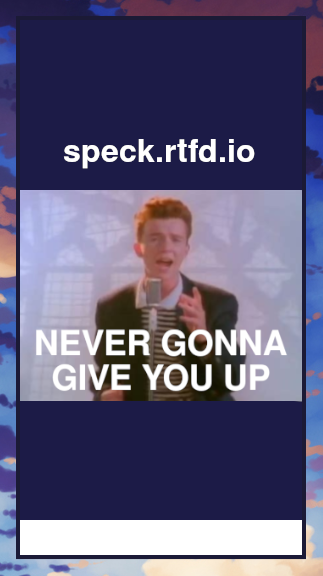
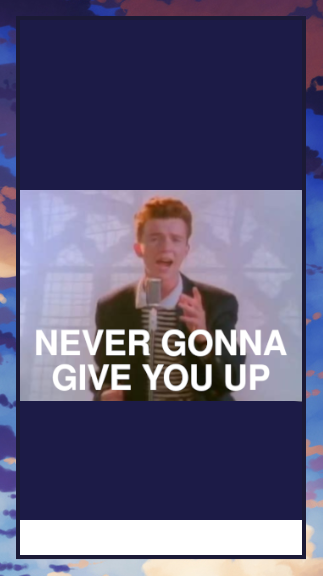
cleanup implementations

Changed region(s): [[0.1858, 0.2188, 0.805, 0.3125]]

diff --git a/speck/client.py b/speck/client.py
@@ -16,6 +16,9 @@ from . import types
 
 __all__ = ['Client']
 
+_FROM_CACHE = 'c'
+_FROM_RESPONSE = 'r'
+
 class Client:
     """
     Represents a connection to weatherapi.com.
@@ -94,14 +97,20 @@ class Client:
             raise errors.InternalError(f"Unable to fetch data at this time: {e}", 9999)
 
     def __generic_request(self, loc, mode, endpoint, parameters, *args, **kwargs):
-        """Generic request method, covering any endpoint and parameters."""
+        """
+        Generic request method, covering any endpoint and parameters.
+
+        :returns: ``(str, response)``. Response can be a `types` object, or a raw
+            weatherapi response. The first element of the tuple is either
+            ``_FROM_CACHE`` or ``_FROM_RESPONSE``.
+        """
 
         if loc == '':
             raise errors.QueryNotProvided('Location cannot be empty.', 0)
 
         n = self.cache.read(mode)
         if n:
-            return n
+            return (_FROM_CACHE, n)
 
         response = self.__make_request(endpoint, parameters)
 
@@ -109,7 +118,13 @@ class Client:
         if e:
             raise e
 
-        return response
+        return (_FROM_RESPONSE, response)
+
+    # All implementations should follow the same naming pattern.
+    # `{type}-{location}-now-{time-identifier}`
+    # Old cache will be cleaned up disregarding `time-identifier`.
+    # So, any cache starting with `{type}-{location}` will be deleted
+    # if a new cache starting with `{type}-{location}` is dumped.
 
     def __cache_dump(self, data, mode):
         """Dump response cache with name ``mode``."""
@@ -149,30 +164,18 @@ class Client:
         :rtype: :class:`types.HourlyPoint`
         """
 
-        if loc == '':
-            raise errors.QueryNotProvided('Location cannot be empty.', 0)
-
+        # https://docs.python.org/3/library/datetime.html#strftime-strptime-behavior
         mode = f"current-{loc.lower()}-now-{dt.now().strftime('%Y-%m-%d-%H-%M')[:-1]}"
 
-        # https://docs.python.org/3/library/datetime.html#strftime-strptime-behavior
+        _type, response = self.__generic_request(loc, mode, 'current.json', f'?key={self._token}&q={loc}')
 
-        # If cache exists (not None), it will be read and an `HourlyPoint` object will be returned
-
-        n = self.cache.read(mode)
-        if n:
-            return n
-
-        response = self.__make_request('current.json', f'?key={self._token}&q={loc}')
-
-        e = Client.__is_error_code(response)
-        if e:
-            raise e
+        if _type == _FROM_CACHE:
+            return response
 
         # Creates the `HourlyPoint` object
         data = types.HourlyPoint.from_raw(response["location"], response["current"])
 
-        self.cache.cleanup(mode.split('-now-')[0] + '-now-*') # Discard any old cache
-        self.cache.dump(mode, data) # Writes cache
+        self.__cache_dump(data, mode)
 
         return data
 
@@ -190,20 +193,12 @@ class Client:
         :rtype: ``(types.HourlyPoint, list[types.DailyPoint])``
         """
 
-        if loc == '':
-            raise errors.QueryNotProvided('Location cannot be empty.', 0)
-
         mode = f"forecast-{loc.lower()}-now-{dt.now().strftime('%Y-%m-%d-%H-%M')[:-1]}"
 
-        n = self.cache.read(mode)
-        if n:
-            return n
+        _type, response = self.__generic_request(loc, mode, 'forecast.json', f'?key={self._token}&q={loc}&days={min(days, 10)}')
 
-        response = self.__make_request('forecast.json', f'?key={self._token}&q={loc}&days={min(days, 10)}')
-
-        e = Client.__is_error_code(response)
-        if e:
-            raise e
+        if _type == _FROM_CACHE:
+            return response
 
         # `data` here is a tuple of the current weather (`HourlyPoint`)
         # and a list of forecasted days (`DailyPoint`s).
@@ -215,8 +210,7 @@ class Client:
             ]
         )
 
-        self.cache.cleanup(mode.split('-now-')[0] + '-now-*')
-        self.cache.dump(mode, data)
+        self.__cache_dump(data, mode)
 
         return data
 
@@ -229,25 +223,16 @@ class Client:
         :rtype: :class:`types.AstroPoint`
         """
 
-        if loc == '':
-            raise errors.QueryNotProvided('Location cannot be empty.', 0)
-
         mode = f"astro-{loc.lower()}-now-{dt.now().strftime('%Y-%m-%d')}"
 
-        n = self.cache.read(mode)
-        if n:
-            return n
+        _type, response = self.__generic_request(loc, mode, 'astronomy.json', f'?key={self._token}&q={loc}')
 
-        response = self.__make_request('astronomy.json', f'?key={self._token}&q={loc}')
-
-        e = Client.__is_error_code(response)
-        if e:
-            raise e
+        if _type == _FROM_CACHE:
+            return response
 
         data = types.AstroPoint.from_raw(response["location"], response["astronomy"]["astro"])
 
-        self.cache.cleanup(mode.split('-now-')[0] + '-now-*')
-        self.cache.dump(mode, data)
+        self.__cache_dump(data, mode)
 
         return data
 
@@ -260,24 +245,17 @@ class Client:
         :rtype: :class:`IpPoint`
         """
 
-        if ip == '':
-            raise errors.QueryNotProvided('IP cannot be empty.', 0)
-
         mode = f"iplookup-{ip}"
 
-        n = self.cache.read(mode)
-        if n:
-            return n
+        _type, response = self.__generic_request(ip, mode, 'ip.json', f'?key={self._token}&q={ip}')
 
-        response = self.__make_request('ip.json', f'?key={self._token}&q={ip}')
-
-        e = Client.__is_error_code(response)
-        if e:
-            raise e
+        if _type == _FROM_CACHE:
+            return response
 
         data = types.IpPoint.from_raw(response)
 
         self.cache.dump(mode, data)
+        # cleanup not required here
 
         return data
 
@@ -290,21 +268,12 @@ class Client:
         :rtype: ``list[types.Location]``
         """
 
-        if loc == '':
-            raise errors.QueryNotProvided('Location cannot be empty.', 0)
-
         mode = f"search-{loc.lower()}"
 
-        n = self.cache.read(mode)
+        _type, response = self.__generic_request(loc, mode, 'search.json', f'?key={self._token}&q={loc}')
 
-        if n:
-            return n
-
-        response = self.__make_request('search.json', f'?key={self._token}&q={loc}')
-
-        e = Client.__is_error_code(response)
-        if e:
-            raise e
+        if _type == _FROM_CACHE:
+            return response
 
         data = [
             types.Location.from_raw(i)
@@ -328,6 +297,7 @@ class Client:
             raise errors.QueryNotProvided('Location cannot be empty.', 0)
 
         # No cache
+        # since localtime is a returned parameter.
 
         response = self.__make_request('timezone.json', f'?key={self._token}&q={loc}')
 
@@ -349,15 +319,10 @@ class Client:
         """
         mode = f"sports-{loc.lower()}-now-{dt.now().strftime('%Y-%m-%d')}"
 
-        n = self.cache.read(mode)
-        if n:
-            return n
+        _type, response = self.__generic_request(loc, mode, 'sports.json', f'?key={self._token}&q={loc}')
 
-        response = self.__make_request('sports.json', f'?key={self._token}&q={loc}')
-
-        e = Client.__is_error_code(response)
-        if e:
-            raise e
+        if _type == _FROM_CACHE:
+            return response
 
         # `SportsPoint` contains data per sports event. It's not specific
         # to any type of sport, nor is it a collection. We use a dictionary
@@ -368,8 +333,7 @@ class Client:
         }
 
 
-        self.cache.cleanup(mode.split('-now-')[0] + '-now-*')
-        self.cache.dump(mode, data)
+        self.__cache_dump(data, mode)
 
         return data
 
@@ -389,23 +353,15 @@ class Client:
         # weatherapi returns history data as an `Forecast` object as per their API.
         # https://www.weatherapi.com/docs/#apis-history
 
-        if loc == '':
-            raise errors.QueryNotProvided('Location cannot be empty.', 0)
-
         mode = f"history-{loc.lower()}-now-{dt.now().strftime('%Y-%m-%d-%H-%M')[:-1]}"
 
-        n = self.cache.read(mode)
-        if n:
-            return n
+        _type, response = self.__generic_request(loc, mode, 'history.json', f'?key={self._token}&q={loc}&days={min(days, 10)}')
 
-        response = self.__make_request('history.json', f'?key={self._token}&q={loc}&days={min(days, 10)}')
-
-        e = Client.__is_error_code(response)
-        if e:
-            raise e
+        if _type == _FROM_CACHE:
+            return response
 
         # `data` here is a tuple of the current weather (`HourlyPoint`)
-        # and a list of historical days (`DailyPoint`s).
+        # and a list of forecasted days (`DailyPoint`s).
         data = (
             types.HourlyPoint.from_raw(response["location"], response["current"]),
             [
@@ -414,10 +370,7 @@ class Client:
             ]
         )
 
-        self.cache.cleanup(mode.split('-now-')[0] + '-now-*')
-        self.cache.dump(mode, data)
-
-        return data
+        self.__cache_dump(data, mode)
 
     # Aliases ---------------------------------------
 

diff --git a/app/speck_app/app.py b/app/speck_app/app.py
@@ -601,6 +601,16 @@ class SpeckApp:
 
         self.__clear_with_bg('etc/exports/rick.png')
 
+        docs_label = Widget(tk.Label(
+            self.root,
+            text = "speck.rtfd.io",
+            font = (self.style.fonts["primary"].family, self.style.fonts["primary"].size_big),
+            fg   =  self.style.colors["secondary"].fg,
+            bg   =  self.style.colors["secondary"].bg
+            ),
+            (84, 140)
+        )
+
         back_btn = Widget(tk.Button(
             self.root,
             text    = "Back",
@@ -614,7 +624,7 @@ class SpeckApp:
             (28,  523) # pos
         )
 
-        self.widget_manager.push(back_btn)
+        self.widget_manager.extend([docs_label, back_btn])
         self.widget_manager.render_all(self.main_canvas.internal)
 
     # -------------------------------------------

diff --git a/speck/__init__.py b/speck/__init__.py
@@ -2,7 +2,7 @@
 Minimal weatherapi API wrapper.
 """
 
-__version__ = 'v0.3.10'
+__version__ = 'v0.3.11'
 
 from .cache import *
 from .client import *
